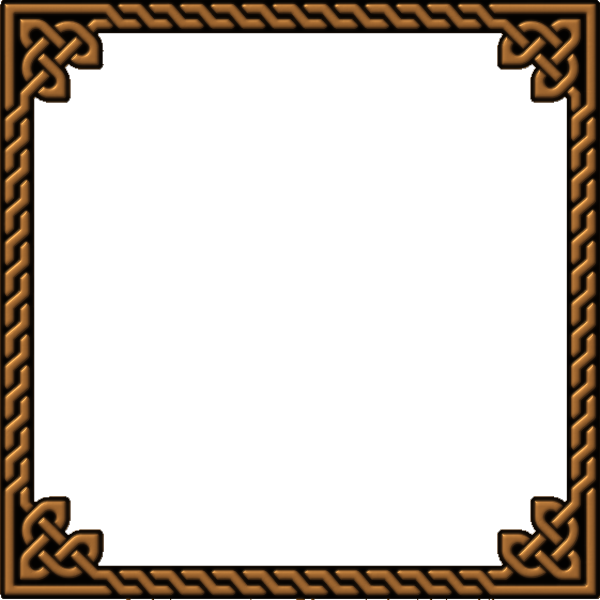
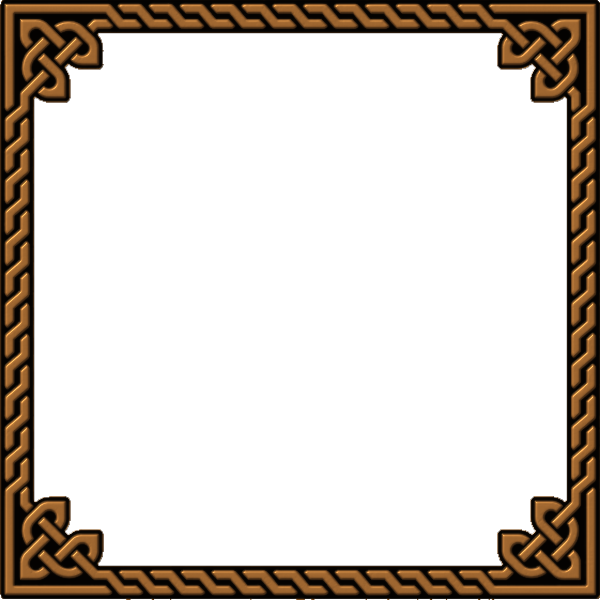
v7.76: cornice in bronzo assottigliata del 50% con linee piu fini

diff --git a/index.html b/index.html
@@ -2412,8 +2412,8 @@ dialog.mk-dialog::backdrop {
   background:
     radial-gradient(ellipse at 50% 34%, rgba(56, 32, 16, 0.16) 0%, rgba(20, 12, 8, 0.10) 52%, transparent 80%),
     linear-gradient(170deg, #0e0b08 0%, #070605 55%, #0a0806 100%);
-  border: 14px solid transparent;
-  border-image: url("img/cornice_bronzo.png") 105 / 22px round;
+  border: 8px solid transparent;
+  border-image: url("img/cornice_bronzo.png") 105 / 12px round;
   border-radius: 2px;
   box-shadow:
     0 24px 64px rgba(0, 0, 0, 0.94),

diff --git a/js/data.js b/js/data.js
@@ -5,7 +5,7 @@
  ============================================================ */
 
 /* ── App info ── */
-export const APP_VERSION = "7.75";
+export const APP_VERSION = "7.76";
 export const APP_RELEASE = "28/11/2026";
 export const APP_DEV = "djiglio.ai";
 
